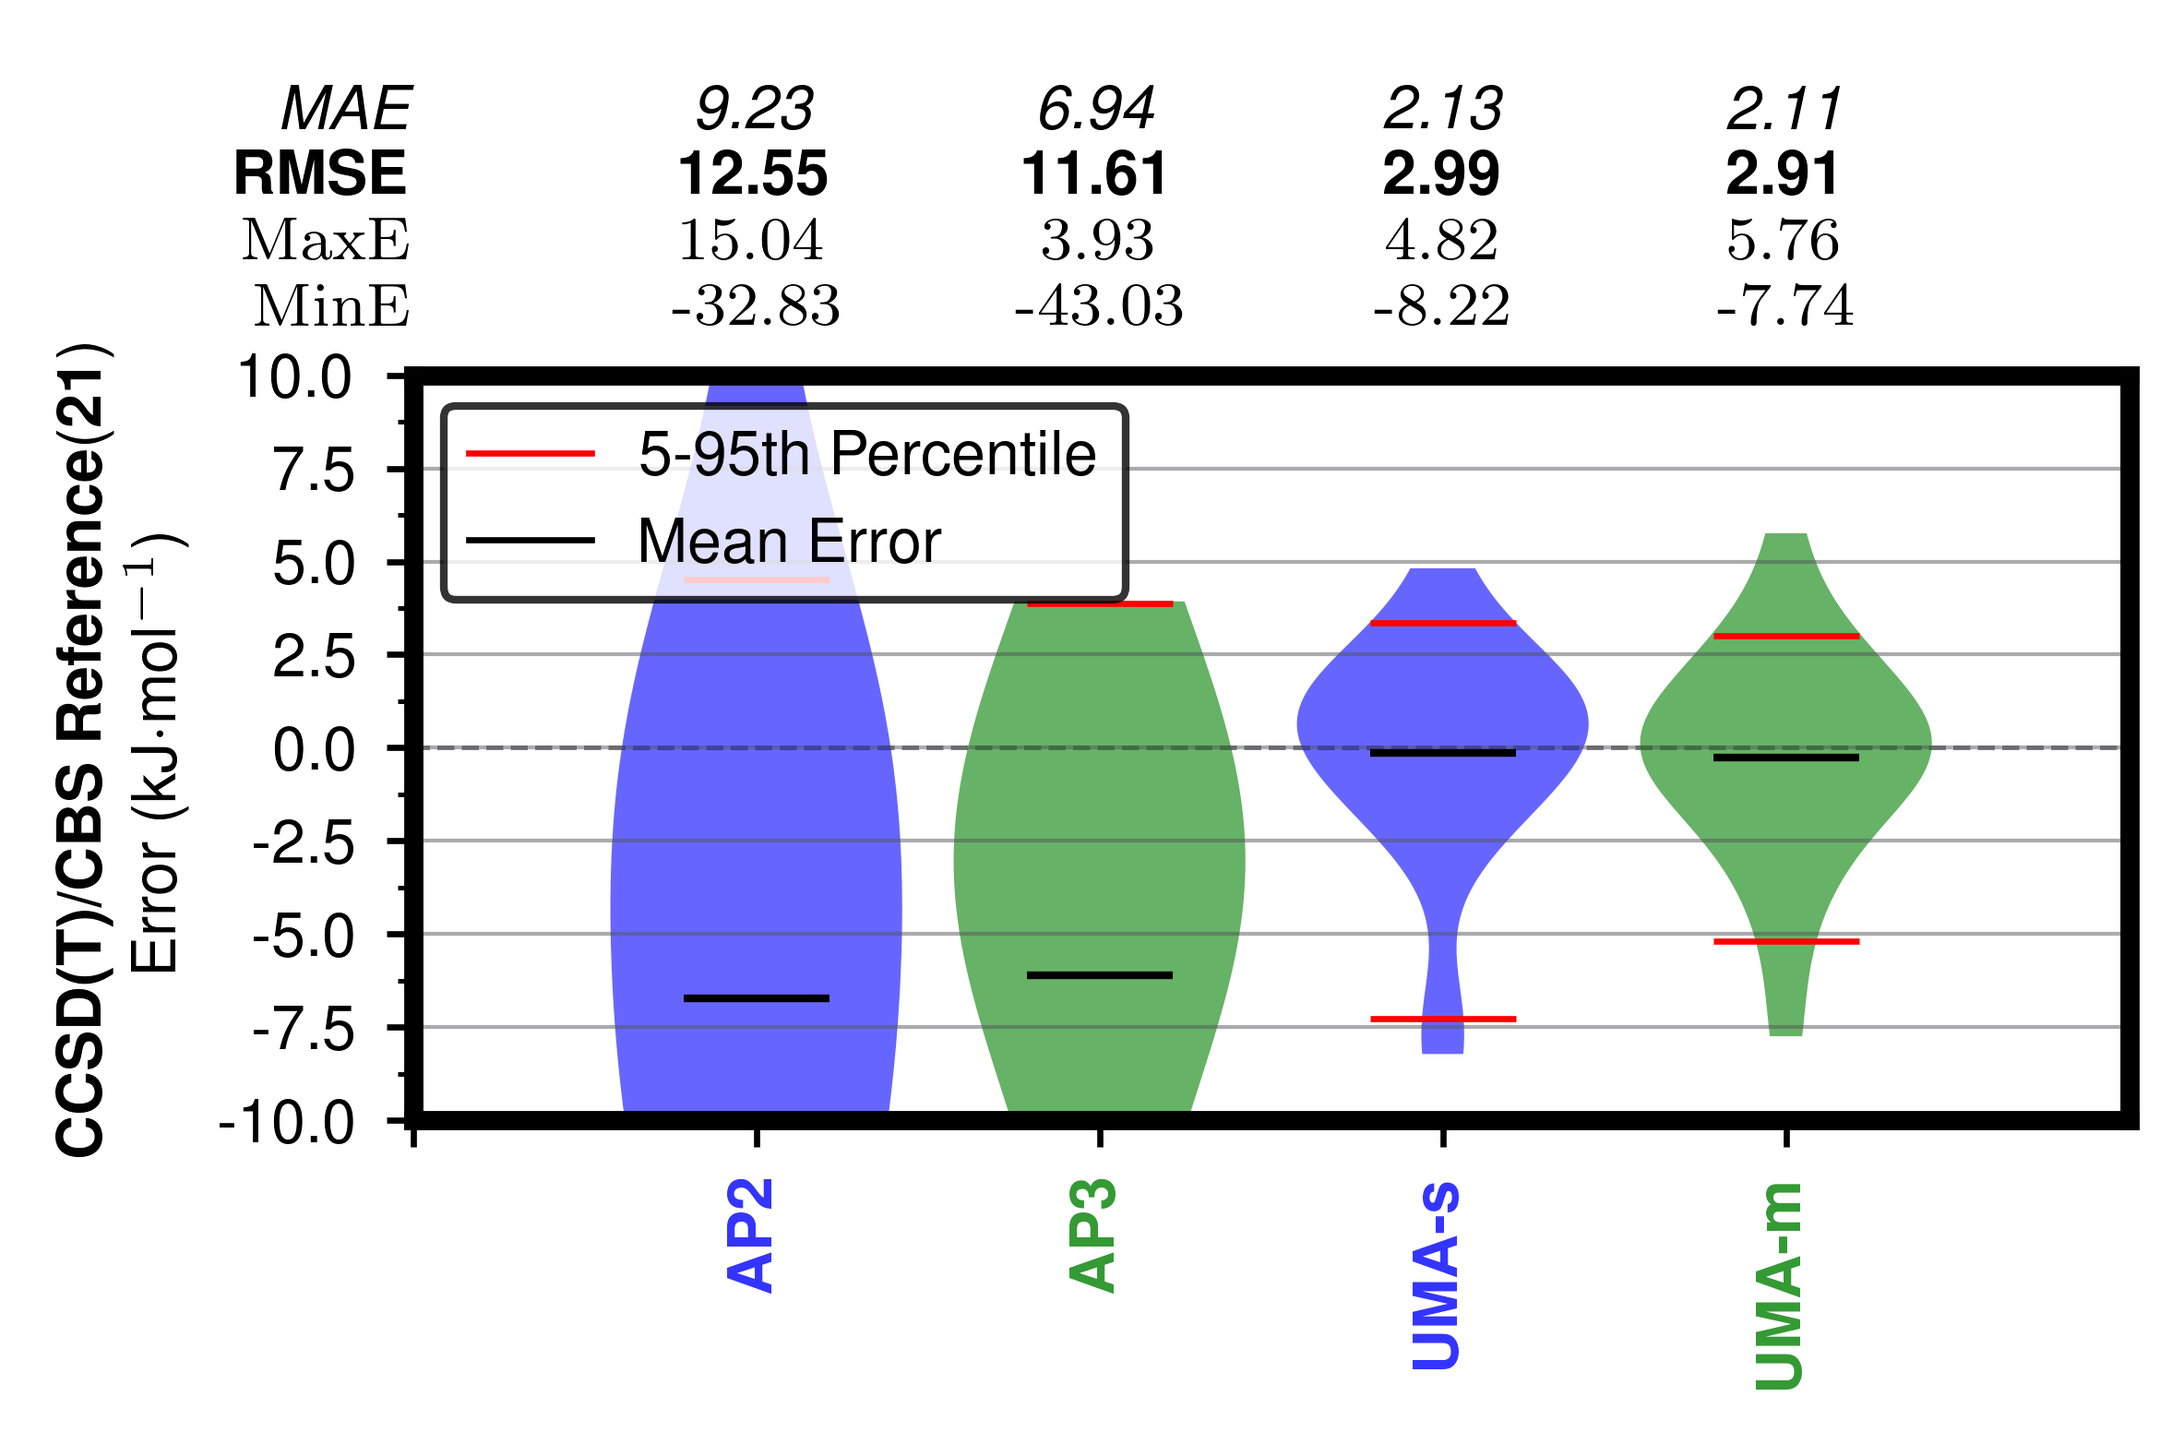
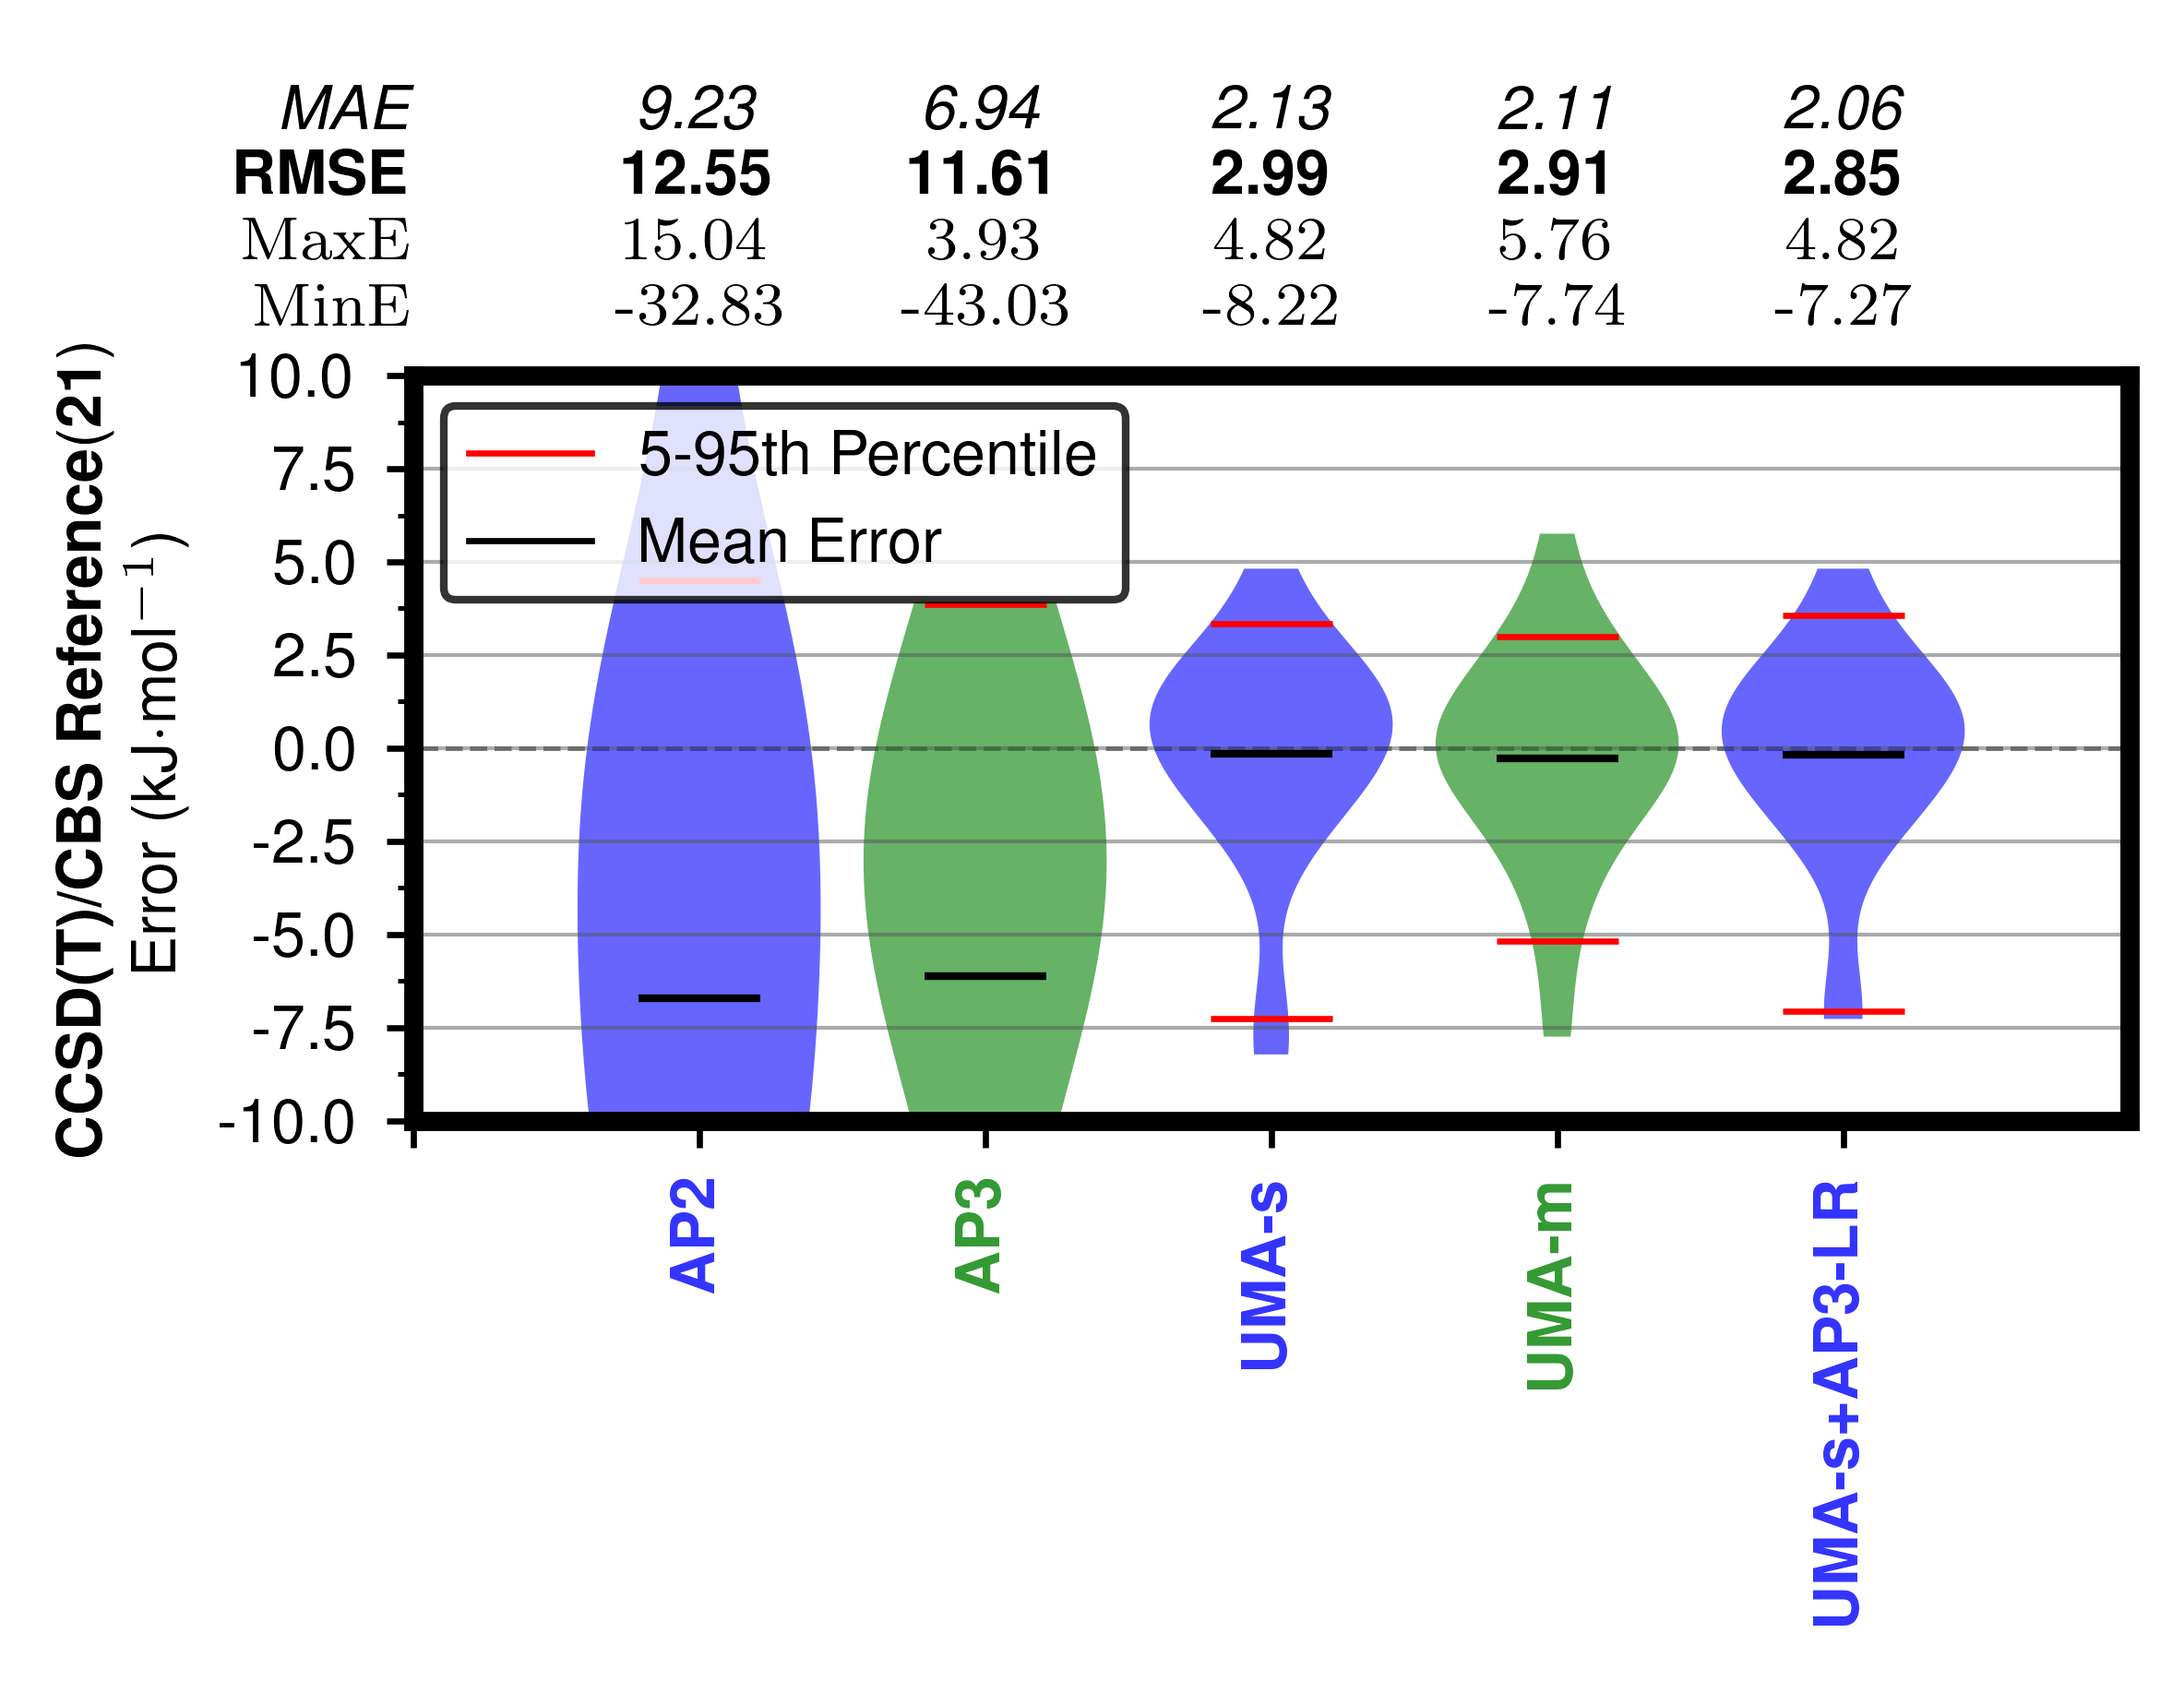
ap3 lr

Changed region(s): [[0.0, 0.0307, 0.9869, 0.9815]]

diff --git a/crystals/crystal_main.py b/crystals/crystal_main.py
@@ -2788,6 +2788,22 @@ def plot_crystal_lattice_energies_with_N(N=1, sft=False):
         )
         df_apprx[f"{i} IE (kJ/mol)"] = df_uma_apprx[f"{i} IE (kJ/mol)"]
         # where uma-m-1p1 IE (kJ/mol) 0, use ap3_d_elst+ap3_classical_ind_energy
+        uma_ap3_lr = []
+        for n, r in df_bm.iterrows():
+            if r[f"{i} IE (kJ/mol)"] == 0.0:
+                val = r["ap3_d_elst"] + r["ap3_classical_ind_energy"]
+                uma_ap3_lr.append(val)
+            else:
+                uma_ap3_lr.append(r[f"{i} IE (kJ/mol)"])
+        df_bm[f"{i}+ap3_lr IE (kJ/mol)"] = uma_ap3_lr
+        uma_ap3_lr = []
+        for n, r in df_apprx.iterrows():
+            if r[f"{i} IE (kJ/mol)"] == 0.0:
+                val = r["ap3_d_elst"] + r["ap3_classical_ind_energy"]
+                uma_ap3_lr.append(val)
+            else:
+                uma_ap3_lr.append(r[f"{i} IE (kJ/mol)"])
+        df_apprx[f"{i}+ap3_lr IE (kJ/mol)"] = uma_ap3_lr
 
     # Get unique crystals
     crystals_apprx = sorted(df_apprx["crystal apprx"].dropna().unique())
@@ -2811,10 +2827,12 @@ def plot_crystal_lattice_energies_with_N(N=1, sft=False):
     ap2_full_cle_errors_sapt0_aDZ = []
     ap3_full_cle_errors_sapt0_aDZ = []
     uma_s_full_cle_errors_sapt0_aDZ = []
+    uma_s_ap3lr_full_cle_errors_sapt0_aDZ = []
     uma_m_full_cle_errors_sapt0_aDZ = []
     ap2_full_cle_errors_ccsd_t_CBS = []
     ap3_full_cle_errors_ccsd_t_CBS = []
     uma_s_full_cle_errors_ccsd_t_CBS = []
+    uma_s_ap3lr_full_cle_errors_ccsd_t_CBS = []
     uma_m_full_cle_errors_ccsd_t_CBS = []
 
     # Process each crystal
@@ -2864,10 +2882,17 @@ def plot_crystal_lattice_energies_with_N(N=1, sft=False):
                     else 0,
                     axis=1,
                 )
+                df_c['uma-s-1p1+ap3_lr_cle'] = df_c.apply(
+                    lambda r: r["uma-s-1p1+ap3_lr IE (kJ/mol)"] * r[num_rep_col] / int(r[nmer_col][0])
+                    if pd.notnull(r[nmer_col]) and "uma-s-1p1+ap3_lr IE (kJ/mol)" in r
+                    else 0,
+                    axis=1,
+                )
 
                 ap2_2b_energies = []
                 ap3_2b_energies = []
                 uma_s_2b_energies = []
+                uma_s_ap3lr_2b_energies = []
                 uma_m_2b_energies = []
                 ref_2b_energies = []
                 df_c = df_c.sort_values(by=mms_col, ascending=True)
@@ -2884,6 +2909,9 @@ def plot_crystal_lattice_energies_with_N(N=1, sft=False):
                     uma_s_above = df_c_above[df_c_above[mms_col] < d]["uma-s-1p1_cle"].sum()
                     uma_s_hybrid_total = uma_s_above + ref_N
 
+                    uma_s_ap3lr_above = df_c_above[df_c_above[mms_col] < d]['uma-s-1p1+ap3_lr_cle'].sum()
+                    uma_s_ap3lr_hybrid_total = uma_s_ap3lr_above  + ref_N
+
                     uma_m_above = df_c_above[df_c_above[mms_col] < d]["uma-m-1p1_cle"].sum()
                     uma_m_hybrid_total = uma_m_above + ref_N
 
@@ -2892,6 +2920,7 @@ def plot_crystal_lattice_energies_with_N(N=1, sft=False):
                     ap2_2b_energies.append(ap2_hybrid_total)
                     ap3_2b_energies.append(ap3_hybrid_total)
                     uma_s_2b_energies.append(uma_s_hybrid_total)
+                    uma_s_ap3lr_2b_energies.append(uma_s_ap3lr_hybrid_total)
                     uma_m_2b_energies.append(uma_m_hybrid_total)
                     ref_2b_energies.append(ref_below)
 
@@ -2927,8 +2956,17 @@ def plot_crystal_lattice_energies_with_N(N=1, sft=False):
                     ax_apprx.plot(
                         sep_distances,
                         uma_m_2b_energies,
-                        "v-",
+                        "^-",
                         label="UMA-m",
+                        markersize=4,
+                        linewidth=1.5,
+                        alpha=0.8,
+                    )
+                    ax_apprx.plot(
+                        sep_distances,
+                        uma_s_ap3lr_2b_energies,
+                        "v-",
+                        label="UMA-s+AP3-LR",
                         markersize=4,
                         linewidth=1.5,
                         alpha=0.8,
@@ -2963,6 +3001,9 @@ def plot_crystal_lattice_energies_with_N(N=1, sft=False):
                 )
                 uma_m_full_cle_errors_sapt0_aDZ.append(
                     uma_m_2b_energies[-1] - ref_2b_energies[-1]
+                )
+                uma_s_ap3lr_full_cle_errors_sapt0_aDZ.append(
+                    uma_s_ap3lr_2b_energies[-1] - ref_2b_energies[-1]
                 )
                 # ax_apprx.set_ylim(-5, 5)
 
@@ -3010,12 +3051,19 @@ def plot_crystal_lattice_energies_with_N(N=1, sft=False):
                     else 0,
                     axis=1,
                 )
+                df_c['uma-s-1p1+ap3_lr_cle'] = df_c.apply(
+                    lambda r: r["uma-s-1p1+ap3_lr IE (kJ/mol)"] * r[num_rep_col] / int(r[nmer_col][0])
+                    if pd.notnull(r[nmer_col]) and "uma-s-1p1+ap3_lr IE (kJ/mol)" in r
+                    else 0,
+                    axis=1,
+                )
 
                 ap2_2b_energies = []
                 ap3_2b_energies = []
-                ref_2b_energies = []
                 uma_s_2b_energies = []
+                uma_s_ap3lr_2b_energies = []
                 uma_m_2b_energies = []
+                ref_2b_energies = []
                 df_c = df_c.sort_values(by=mms_col, ascending=True)
                 df_c_N = df_c.iloc[:N]
                 df_c_above = df_c.iloc[N:]
@@ -3030,6 +3078,9 @@ def plot_crystal_lattice_energies_with_N(N=1, sft=False):
                     uma_s_above = df_c_above[df_c_above[mms_col] < d]["uma-s-1p1_cle"].sum()
                     uma_s_hybrid_total = uma_s_above + ref_N
 
+                    uma_s_ap3lr_above = df_c_above[df_c_above[mms_col] < d]['uma-s-1p1+ap3_lr_cle'].sum()
+                    uma_s_ap3lr_hybrid_total = uma_s_ap3lr_above  + ref_N
+
                     uma_m_above = df_c_above[df_c_above[mms_col] < d]["uma-m-1p1_cle"].sum()
                     uma_m_hybrid_total = uma_m_above + ref_N
 
@@ -3038,6 +3089,7 @@ def plot_crystal_lattice_energies_with_N(N=1, sft=False):
                     ap2_2b_energies.append(ap2_hybrid_total)
                     ap3_2b_energies.append(ap3_hybrid_total)
                     uma_s_2b_energies.append(uma_s_hybrid_total)
+                    uma_s_ap3lr_2b_energies.append(uma_s_ap3lr_hybrid_total)
                     uma_m_2b_energies.append(uma_m_hybrid_total)
                     ref_2b_energies.append(ref_below)
 
@@ -3073,8 +3125,17 @@ def plot_crystal_lattice_energies_with_N(N=1, sft=False):
                     ax_bm.plot(
                         sep_distances,
                         uma_m_2b_energies,
-                        "v-",
+                        "^-",
                         label="UMA-m",
+                        markersize=4,
+                        linewidth=1.5,
+                        alpha=0.8,
+                    )
+                    ax_bm.plot(
+                        sep_distances,
+                        uma_s_ap3lr_2b_energies,
+                        "v-",
+                        label="UMA-s+AP3-LR",
                         markersize=4,
                         linewidth=1.5,
                         alpha=0.8,
@@ -3110,6 +3171,9 @@ def plot_crystal_lattice_energies_with_N(N=1, sft=False):
                     uma_m_full_cle_errors_ccsd_t_CBS.append(
                         uma_m_2b_energies[-1] - ref_2b_energies[-1]
                     )
+                    uma_s_ap3lr_full_cle_errors_ccsd_t_CBS.append(
+                        uma_s_ap3lr_2b_energies[-1] - ref_2b_energies[-1]
+                    )
                 # ax_bm.set_ylim(-5, 5)
 
         # Style axes
@@ -3118,7 +3182,7 @@ def plot_crystal_lattice_energies_with_N(N=1, sft=False):
             ax.tick_params(which="major", direction="in", top=True, right=True)
 
             # Only show x-label on bottom row
-            if idx == N - 1:
+            if idx == N_crystals - 1:
                 ax.set_xlabel("Min. Mon. Sep. (Å)", fontsize=11)
             else:
                 ax.tick_params(axis="x", labelbottom=False)
@@ -3170,6 +3234,7 @@ def plot_crystal_lattice_energies_with_N(N=1, sft=False):
             "AP3 vs SAPT0 error": ap3_full_cle_errors_sapt0_aDZ,
             "UMA-s vs SAPT0 error": uma_s_full_cle_errors_sapt0_aDZ,
             "UMA-m vs SAPT0 error": uma_m_full_cle_errors_sapt0_aDZ,
+            "UMA-s+AP3-LR vs SAPT0 error": uma_s_ap3lr_full_cle_errors_sapt0_aDZ,
         }
     )
 
@@ -3189,6 +3254,7 @@ def plot_crystal_lattice_energies_with_N(N=1, sft=False):
         "AP3": "AP3 vs SAPT0 error",
         "UMA-s": "UMA-s vs SAPT0 error",
         "UMA-m": "UMA-m vs SAPT0 error",
+        "UMA-s+AP3-LR": "UMA-s+AP3-LR vs SAPT0 error",
     }
 
     method_cols = [
@@ -3208,6 +3274,7 @@ def plot_crystal_lattice_energies_with_N(N=1, sft=False):
             "AP3 vs CCSD(T)/CBS error": ap3_full_cle_errors_ccsd_t_CBS,
             "UMA-s vs CCSD(T)/CBS error": uma_s_full_cle_errors_ccsd_t_CBS,
             "UMA-m vs CCSD(T)/CBS error": uma_m_full_cle_errors_ccsd_t_CBS,
+            "UMA-s+AP3-LR vs CCSD(T)/CBS error": uma_s_ap3lr_full_cle_errors_ccsd_t_CBS,
         }
     )
 
@@ -3227,6 +3294,7 @@ def plot_crystal_lattice_energies_with_N(N=1, sft=False):
         "AP3": "AP3 vs CCSD(T)/CBS error",
         "UMA-s": "UMA-s vs CCSD(T)/CBS error",
         "UMA-m": "UMA-m vs CCSD(T)/CBS error",
+        "UMA-s+AP3-LR": "UMA-s+AP3-LR vs CCSD(T)/CBS error",
     }
 
     # Create violin plot for df1
